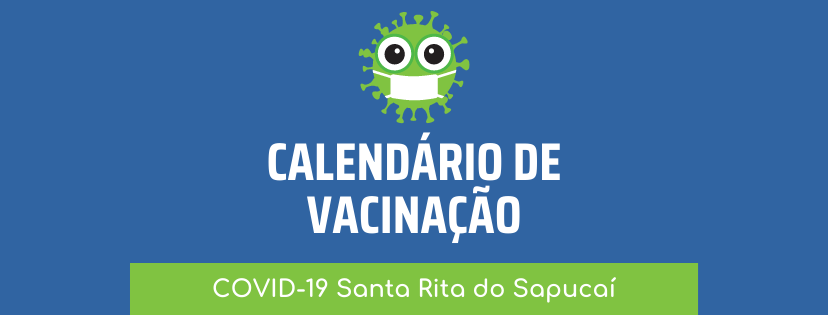
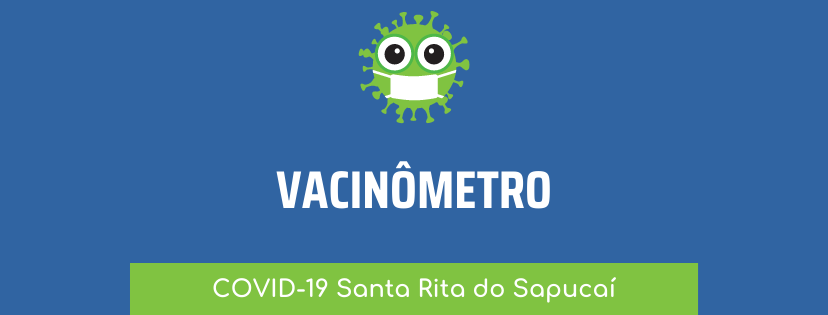
Vacinometro para mobile

Changed region(s): [[0.3019, 0.4286, 0.6944, 0.7714]]

diff --git a/lib/ui/calendario.dart b/lib/ui/calendario.dart
@@ -4,14 +4,275 @@ import 'package:flutter/material.dart';
 class CalendarioPage extends StatelessWidget {
   @override
   Widget build(BuildContext context) {
-    AppScale _scale = AppScale(context);
+    Size size = MediaQuery.of(context).size;
+    double width = size.width > size.height ? size.height : size.width;
 
-    return Center(
-      child: Container(
-        child: Text(
-          "Calendário de Vacinação",
-          style: TextStyle(color: Colors.blue, fontSize: _scale.labelDim * 5),
-        ),
+    if (width < 722) {
+      return calendScreenPhone(context);
+    } else if (width > 722) {
+      return calendScreenDesktop(context);
+    } else {
+      return calendScreenDesktop(context);
+    }
+  }
+
+  Scaffold calendScreenPhone(BuildContext context) {
+    Color baseColor = Colors.white;
+
+    var center = Alignment.center;
+    return Scaffold(
+      backgroundColor: Colors.grey[200],
+      body: ListView(
+        children: [
+          Container(
+            width: MediaQuery.of(context).size.width,
+            margin: EdgeInsets.fromLTRB(0.0, 0.0, 0.0, 10.0),
+            color: baseColor,
+            child: Image(
+              image: AssetImage("./assets/calendMobile.png"),
+              fit: BoxFit.cover,
+            ),
+          ),
+          Container(
+            width: MediaQuery.of(context).size.width,
+            margin: EdgeInsets.fromLTRB(0.0, 0.0, 0.0, 5.0),
+            alignment: Alignment(0.0, 0.0),
+            decoration: BoxDecoration(
+              color: Colors.white,
+              border: Border.all(width: 1.0, color: Colors.white),
+              borderRadius: BorderRadius.circular(20),
+            ),
+            child: Column(children: [
+              ClipRRect(
+                borderRadius: BorderRadius.circular(20.0),
+                child: (Image(
+                  image: AssetImage("./assets/vacinometro.jpg"),
+                )),
+              ),
+            ]),
+          ),
+          Container(
+            width: MediaQuery.of(context).size.width,
+            margin: EdgeInsets.fromLTRB(0.0, 10.0, 0.0, 5.0),
+            alignment: Alignment(0.0, 0.0),
+            decoration: BoxDecoration(
+              color: Colors.white,
+              border: Border.all(width: 1.0, color: Colors.white),
+              borderRadius: BorderRadius.circular(20),
+            ),
+            child: Column(children: [
+              Align(
+                alignment: Alignment.centerLeft,
+                child: Icon(
+                  Icons.contact_support,
+                  color: Colors.blue[700],
+                ),
+              ),
+              SizedBox(
+                height: 16,
+              ),
+              Text(
+                "Foi o município quem determinou a ordem dos grupos a serem vacinados?",
+                style: TextStyle(
+                  fontSize: 20,
+                  fontWeight: FontWeight.bold,
+                  color: Color(0xFF1565C0),
+                ),
+              ),
+              SizedBox(
+                height: 10,
+              ),
+              Align(
+                alignment: Alignment.centerLeft,
+                child: Text(
+                  "Não, os grupos prioritários e a ordem em que eles serão vacinados foram definidos pelo Ministério da Saúde, e pela Secretaria do Estado de Saúde de Minas Gerais, por meio da Deliberação CIB-SUS/MG 3314, de 29 de janeiro de 2021.",
+                  style: TextStyle(
+                    fontSize: 14,
+                    color: Colors.black,
+                  ),
+                ),
+              ),
+              SizedBox(
+                height: 10,
+              ),
+            ]),
+          ),
+          Container(
+            width: MediaQuery.of(context).size.width,
+            margin: EdgeInsets.fromLTRB(0.0, 10.0, 0.0, 5.0),
+            alignment: Alignment(0.0, 0.0),
+            decoration: BoxDecoration(
+              color: Colors.white,
+              border: Border.all(width: 1.0, color: Colors.white),
+              borderRadius: BorderRadius.circular(20),
+            ),
+            child: Column(children: [
+              Align(
+                alignment: Alignment.centerLeft,
+                child: Icon(
+                  Icons.contact_support,
+                  color: Colors.blue[700],
+                ),
+              ),
+              SizedBox(
+                height: 16,
+              ),
+              Text(
+                "Qual o grupo prioritário em que estamos hoje no município?",
+                style: TextStyle(
+                  fontSize: 20,
+                  fontWeight: FontWeight.bold,
+                  color: Color(0xFF1565C0),
+                ),
+              ),
+              SizedBox(
+                height: 10,
+              ),
+              Align(
+                alignment: Alignment.centerLeft,
+                child: Text(
+                  "Grupo de comorbidades: Pessoas com Síndrome de Down (todos acima de 18 anos)",
+                  style: TextStyle(
+                    fontSize: 14,
+                    color: Colors.black,
+                  ),
+                ),
+              ),
+              Align(
+                alignment: Alignment.centerLeft,
+                child: Text(
+                  "Renal crônico: Que faz hemodiálise e diálise (todos acima de 18 anos)",
+                  style: TextStyle(
+                    fontSize: 14,
+                    color: Colors.black,
+                  ),
+                ),
+              ),
+              Align(
+                alignment: Alignment.centerLeft,
+                child: Text(
+                  "Demais Comorbidades: de 59 a 55 anos.",
+                  style: TextStyle(
+                    fontSize: 14,
+                    color: Colors.black,
+                  ),
+                ),
+              ),
+              Align(
+                alignment: Alignment.centerLeft,
+                child: Text(
+                  "(Grupo em anexo. Pessoas com deficiência cadastradas no BPC: de 59 a 55 anos.)",
+                  style: TextStyle(
+                    fontSize: 14,
+                    color: Colors.black,
+                  ),
+                ),
+              ),
+              SizedBox(
+                height: 10,
+              ),
+              Align(
+                alignment: Alignment.centerLeft,
+                child: Text(
+                  "Nota: Gestantes e Puérperas suspensão a vacinação com a vacina do Laboratório Fio Cruz/ Astrazenica, de acordo com o ofício em anexo.O Município recebeu apenas o laboratório Fiocruz/Astrazenica, por esse motivo a suspensão da vacina para Gestantes e Puérperas.",
+                  style: TextStyle(
+                    fontSize: 14,
+                    fontWeight: FontWeight.bold,
+                    color: Colors.black,
+                  ),
+                ),
+              ),
+              SizedBox(
+                height: 10,
+              ),
+            ]),
+          ),
+          Container(
+            width: MediaQuery.of(context).size.width,
+            margin: EdgeInsets.fromLTRB(0.0, 10.0, 0.0, 5.0),
+            alignment: Alignment(0.0, 0.0),
+            decoration: BoxDecoration(
+              color: Colors.white,
+              border: Border.all(width: 1.0, color: Colors.white),
+              borderRadius: BorderRadius.circular(20),
+            ),
+            child: Column(children: [
+              Align(
+                alignment: Alignment.centerLeft,
+                child: Icon(
+                  Icons.contact_support,
+                  color: Colors.blue[700],
+                ),
+              ),
+              SizedBox(
+                height: 16,
+              ),
+              Text(
+                "Como posso realizar o agendamento para os idosos acima de 60 – 64?",
+                style: TextStyle(
+                  fontSize: 20,
+                  fontWeight: FontWeight.bold,
+                  color: Color(0xFF1565C0),
+                ),
+              ),
+              SizedBox(
+                height: 10,
+              ),
+              Align(
+                alignment: Alignment.centerLeft,
+                child: Text(
+                  "Caso algum idoso nesta faixa de idade ainda não tenha recebido a vacina, solicitamos que a família, ou amigos procurem o Posto de Saúde em que o idoso for registrado, ou o posto mais próximo, de acordo com seu bairro para saber quais os horários disponíveis e se a vacina será feita em domicílio, ou não.",
+                  style: TextStyle(
+                    fontSize: 14,
+                    color: Colors.black,
+                  ),
+                ),
+              ),
+              SizedBox(
+                height: 10,
+              ),
+            ]),
+          ),
+        ],
+      ),
+    );
+  }
+
+  Scaffold calendScreenDesktop(BuildContext context) {
+    Color baseColor = Colors.white;
+
+    return Scaffold(
+      backgroundColor: Colors.grey[200],
+      body: ListView(
+        children: [
+          Container(
+            width: MediaQuery.of(context).size.width,
+            margin: EdgeInsets.fromLTRB(0.0, 0.0, 0.0, 10.0),
+            color: baseColor,
+            child: Image(
+              image: AssetImage("./assets/calendDesk.png"),
+              fit: BoxFit.cover,
+            ),
+          ),
+          Container(
+            width: MediaQuery.of(context).size.width,
+            margin: EdgeInsets.fromLTRB(0.0, 0.0, 0.0, 5.0),
+            alignment: Alignment(0.0, 0.0),
+            decoration: BoxDecoration(
+              color: Colors.white,
+              border: Border.all(width: 1.0, color: Color(0xFFCFD8DC)),
+              borderRadius: BorderRadius.circular(20),
+            ),
+            child: Column(children: [
+              ClipRRect(
+                borderRadius: BorderRadius.circular(20.0),
+                child: (Image(
+                  image: AssetImage("./assets/vacinometro.jpg"),
+                )),
+              ),
+            ]),
+          ),
+        ],
       ),
     );
   }
